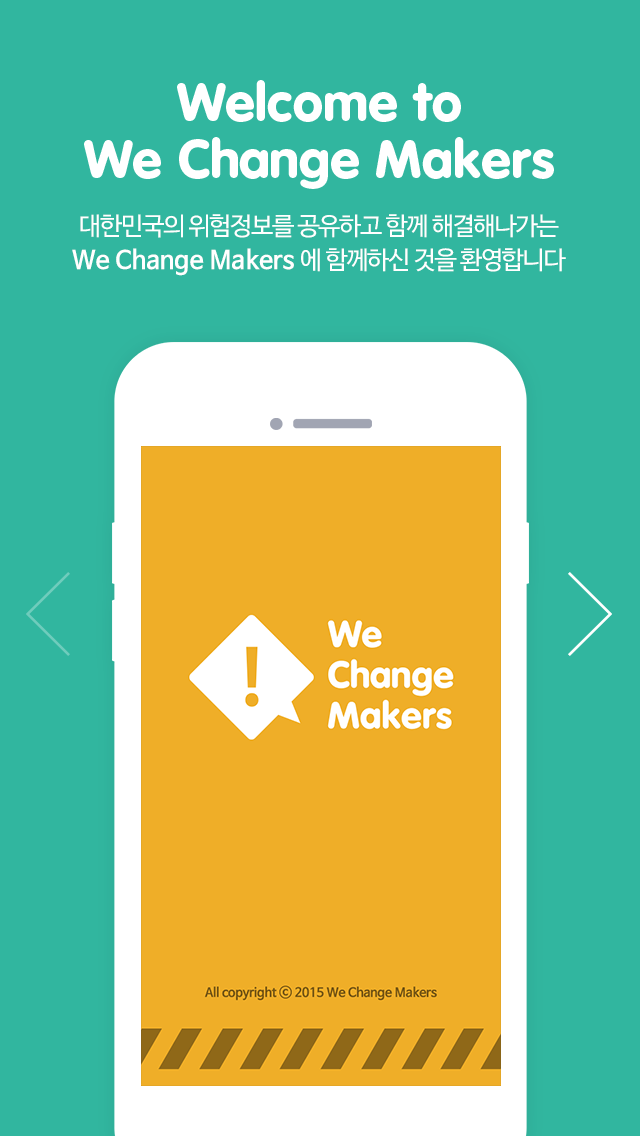
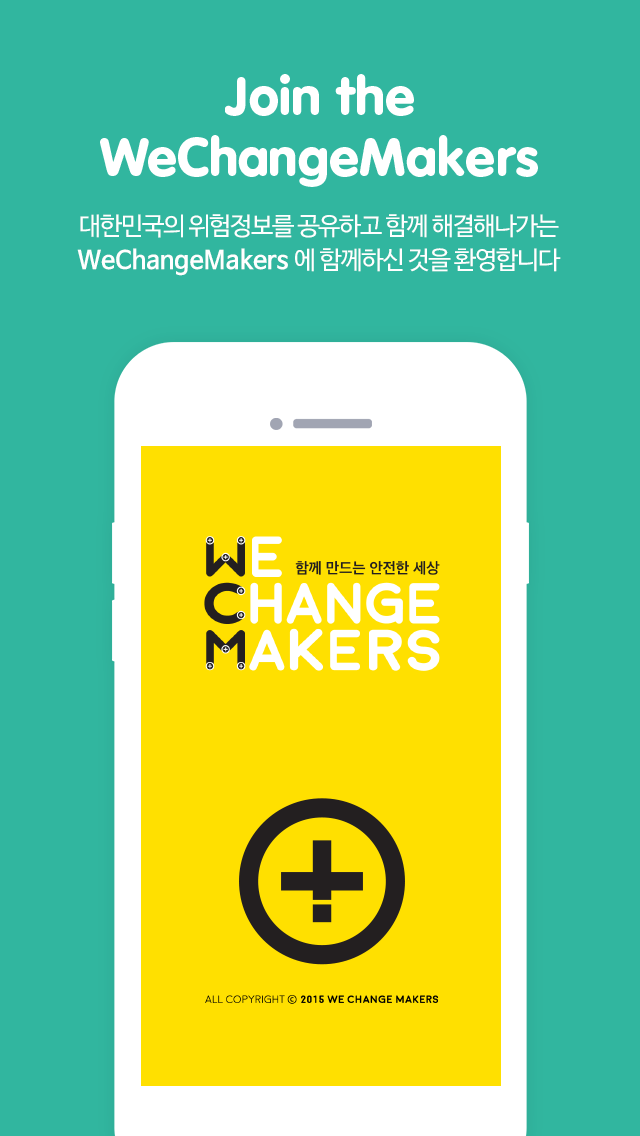
-디자인 이미지 및 css 변경 -신고하고 난 후 card없애는 부분 추가 -dropdown버튼 login일때만 보이게 함

diff --git a/www/js/homeController.js b/www/js/homeController.js
@@ -5,6 +5,8 @@ wcm.controller("HomeController", function($scope, $rootScope, $cordovaNetwork, $
   var cardList = JSON.parse(window.localStorage['cardList'] || '{}');
   $scope.welcome = true;
   $scope.noMoreItemsAvailable = false;
+  $scope.logoTitle='<img class="title-image" src="img/logo.png" />';
+
   //sort type
   $scope.sortingTypeList = [
     { text: "최신순", value: "registration" },
@@ -26,6 +28,11 @@ wcm.controller("HomeController", function($scope, $rootScope, $cordovaNetwork, $
 
   $scope.$on('$ionicView.beforeEnter', function(){
 
+    if(user.isAuthenticated != null && user.isAuthenticated == true){
+      $scope.userLogin = true;
+    }else{
+      $scope.userLogin = false;
+    }
     // 앱에서 열였다면
     if(mIsWebView){
         var tryNum = 0;
@@ -268,26 +275,18 @@ wcm.controller("HomeController", function($scope, $rootScope, $cordovaNetwork, $
 
           var postData = 'locationData='+JSON.stringify(formData);
 
-
-          if (user.userid == null) {
-            var request = $http({
-                method: "post",
-                url: mServerAPI + "/card/" + $scope.page + '/' + $scope.data.sortingType,
-                crossDomain : true,
-                headers: { 'Content-Type': 'application/x-www-form-urlencoded; charset=UTF-8'},
-                data: postData,
-                cache: false
-            });
-          } else {
-            var request = $http({
-                method: "post",
-                url: mServerAPI + "/card/" + $scope.page + '/' + $scope.data.sortingType + '/' + user.userid,
-                crossDomain : true,
-                headers: { 'Content-Type': 'application/x-www-form-urlencoded; charset=UTF-8'},
-                data: postData,
-                cache: false
-            });
+          var url = mServerAPI + "/card/" + $scope.page + '/' + $scope.data.sortingType
+          if(user.isAuthenticated === true){
+            url = url + '/' + user.userid;
           }
+          var request = $http({
+              method: "post",
+              url: url,
+              crossDomain : true,
+              headers: { 'Content-Type': 'application/x-www-form-urlencoded; charset=UTF-8'},
+              data: postData,
+              cache: false
+          });
 
           request.error(function(error){
             $ionicLoading.hide();
@@ -423,7 +422,6 @@ wcm.controller("HomeController", function($scope, $rootScope, $cordovaNetwork, $
 
   $scope.postReport = function ($event, card) {
     CardService.temporaryPost = card;
-    console.log($rootScope.allData.cards);
     $ionicPopover.fromTemplateUrl('templates/report.html', {
       scope: $scope
     }).then(function(reportPopover) {
@@ -496,26 +494,14 @@ wcm.controller("HomeController", function($scope, $rootScope, $cordovaNetwork, $
 
     var postData = 'locationData='+JSON.stringify(formData);
 
-    if (user.userid == null) {
-      var request = $http({
-          method: "post",
-          url: mServerAPI + "/card/" + $scope.page + '/' + sortType,
-          crossDomain : true,
-          headers: { 'Content-Type': 'application/x-www-form-urlencoded; charset=UTF-8'},
-          data: postData,
-          cache: false
-      });
-    } else {
-      var request = $http({
-          method: "post",
-          url: mServerAPI + "/card/" + $scope.page + '/' + sortType + '/' + user.userid,
-          crossDomain : true,
-          headers: { 'Content-Type': 'application/x-www-form-urlencoded; charset=UTF-8'},
-          data: postData,
-          cache: false
-      });
-    }
-
+    var request = $http({
+        method: "post",
+        url: mServerAPI + "/card/" + $scope.page + '/' + sortType,
+        crossDomain : true,
+        headers: { 'Content-Type': 'application/x-www-form-urlencoded; charset=UTF-8'},
+        data: postData,
+        cache: false
+    });
 
     $ionicLoading.show({
       template: '<ion-spinner icon="bubbles"></ion-spinner><br/>로딩중..'
@@ -595,7 +581,6 @@ wcm.controller("HomeController", function($scope, $rootScope, $cordovaNetwork, $
 
   // Check current user & card user
   $scope.userChecked = function(card) {
-
     if(user != null){
       if (user.isAuthenticated === true) {
         if ( card.user[0].user_id === user.userid ) {
@@ -682,24 +667,27 @@ wcm.controller("HomeController", function($scope, $rootScope, $cordovaNetwork, $
 
   $scope.hidePost = function() {
     // 서버 db에 block 정보 저장
-    CardBlockFactory.postHide(user.userid, CardService.temporaryPost.id);
+    // CardBlockFactory.postHide(user.userid, CardService.temporaryPost.id);
 
     // local data에 block 정보 저장
     var hidePost = $rootScope.allData.cards.indexOf(CardService.temporaryPost);
     $rootScope.allData.cards.splice(hidePost, 1);
-    console.log($rootScope.allData.cards);
     $scope.reportPopover.hide();
   }
 
   $scope.blockUser = function() {
     CardBlockFactory.userBlock(user.userid, CardService.temporaryPost.user_id);
-
-    for (var i = 0; i < $rootScope.allData.cards.length; i++) {
-      if($rootScope.allData.cards[i].user_id == CardService.temporaryPost.user_id) {
-        var blockPost = $rootScope.allData.cards.indexOf($rootScope.allData.cards[i]);
-        $rootScope.allData.cards.splice(blockPost, 1);
-      }
-    }
+    var hidePosts = [];
+    for(var i=0 ; i < $rootScope.allData.cards.length; i++){
+      if($rootScope.allData.cards[i].user[0].id == CardService.temporaryPost.user_id){
+        var hidePost = $rootScope.allData.cards.indexOf($rootScope.allData.cards[i]);
+        hidePosts.push(hidePost);
+      };
+    };
+    hidePosts.reverse();
+    for(var i=0 ; i < hidePosts.length; i++){
+      $rootScope.allData.cards.splice(hidePosts[i], 1);
+    };
     $scope.reportPopover.hide();
   }
 

diff --git a/www/templates/home.html b/www/templates/home.html
@@ -1,4 +1,4 @@
-<ion-view view-title="WCM">
+<ion-view view-title="{{logoTitle}}">
   <ion-nav-buttons side="right">
     <button type="submit" class="button button-icon" ng-click="openPopover($event)">
       <i class="icon ion-android-list"></i>
@@ -26,7 +26,7 @@
               <p class="username" ng-bind="card.user[0].username"></p>
               <p class="date" ng-bind="card.create_time"></p>
 
-              <div id="dropdown-btn" ng-click="postReport($event, card)">
+              <div id="dropdown-btn" ng-click="postReport($event, card)" ng-if="userLogin">
                 <i class="ion-chevron-down"></i>
               </div>
               <i class="ion-trash-a delete" ng-style="userChecked(card)" ng-click="deleteCard(card.id)"></i>
@@ -93,9 +93,9 @@
     <ion-popover-view class="report-popover">
       <ion-content>
         <ul class="list">
-          <li class="item" ng-click="hidePost()"><i class="ion-close-circled"></i><span>게시물 숨기기</span></li>
-          <li class="item" ng-click="blockUser()"><i class="ion-eye-disabled"></i><span>이 사람의 게시물 더이상 보지 않기</span></li>
-          <li class="item" ng-click="blockPost()"><i class="ion-alert-circled"></i><span>게시물 신고하기</span></li>
+          <li class="item" ng-click="hidePost(); $event.stopPropagation()"><i class="ion-close-circled"></i><span>게시물 숨기기</span></li>
+          <li class="item" ng-click="blockUser(); $event.stopPropagation()"><i class="ion-eye-disabled"></i><span>이 사람의 게시물 더이상 보지 않기</span></li>
+          <li class="item" ng-click="blockPost(); $event.stopPropagation()"><i class="ion-alert-circled"></i><span>게시물 신고하기</span></li>
         </ul>
       </ion-content>
     </ion-popover-view>

diff --git a/www/css/style.css b/www/css/style.css
@@ -2,12 +2,19 @@
 /* flip in */
 
 .nav-bar-block, .bar {
-  background-color: #efae28 !important;
-  border-color : #efae28 !important;
+  background-color: #ffe000 !important;
+  border-color : #ffe000 !important;
+}
+.bar.bar-assertive .title{
+  color : #111 !important;
+  font-weight: bold;
+}
+.bar-assertive .button{
+  color : #333 !important;
 }
 .tabs-dark > .tabs, .tabs.tabs-dark {
-  background-color: #e0e0e0 !important;
-  border-color : #e0e0e0 !important;
+  background-color: #ffe000 !important;
+  border-color : #ffe000 !important;
 }
 
 .header-offline{

diff --git a/www/js/tabController.js b/www/js/tabController.js
@@ -2,7 +2,7 @@ wcm.controller("TabController", function($scope, $state, $ionicPopup) {
   
   $scope.userLoginCheck = function(tab) {
     var user = JSON.parse(window.localStorage['user'] || '{}');
-    console.log('TabController user.isAuthenticated : ' + user.isAuthenticated);
+    // console.log('TabController user.isAuthenticated : ' + user.isAuthenticated);
     if (user.isAuthenticated === true) {
       if(tab == 'write'){
         $state.go("tabs.write");

diff --git a/www/css/home.css b/www/css/home.css
@@ -9,6 +9,10 @@
 	display: block;
 }
 
+.title-image{
+	margin-top: 15px;
+	height: 16px;
+}
 /*popover height*/
 .home_popover{
 	height: 175px;
@@ -23,7 +27,7 @@
 }
 /*active 탭에 대한 icon과 글자 색*/
 .tab-item-active .icon, .tab-item-active .tab-title{
-	color : #EFAE28;
+	color : #000;
 }
 .tabs-striped.tabs-dark .tab-item.tab-item-active, .tabs-striped.tabs-dark .tab-item.active,
 .tabs-striped.tabs-dark .tab-item.activated{

diff --git a/www/js/app.js b/www/js/app.js
@@ -475,6 +475,8 @@ wcm.config(function($stateProvider, $urlRouterProvider, $ionicConfigProvider) {
   $ionicConfigProvider.form.toggle('large').checkbox('circle');
   //ios에서 swipe하여 back 하는 기능 false
   $ionicConfigProvider.views.swipeBackEnabled(false);
+  //backbutton text hide
+  $ionicConfigProvider.backButton.text('').previousTitleText(false);
 
   $stateProvider
   .state("tabs.fblogin", {

diff --git a/www/css/profile.css b/www/css/profile.css
@@ -17,7 +17,7 @@
 }
 
 #profile_page .profile-form {
-	background-color: #eead39;
+	background-color: #ffe000;
 	padding-top: 20px;
 }
 

diff --git a/www/css/map.css b/www/css/map.css
@@ -8,7 +8,7 @@
 }
 
 .input-box{
-  background-color: #efae28;
+  background-color: #ffe000;
   width: 100%;
 }
 .pac-input {
